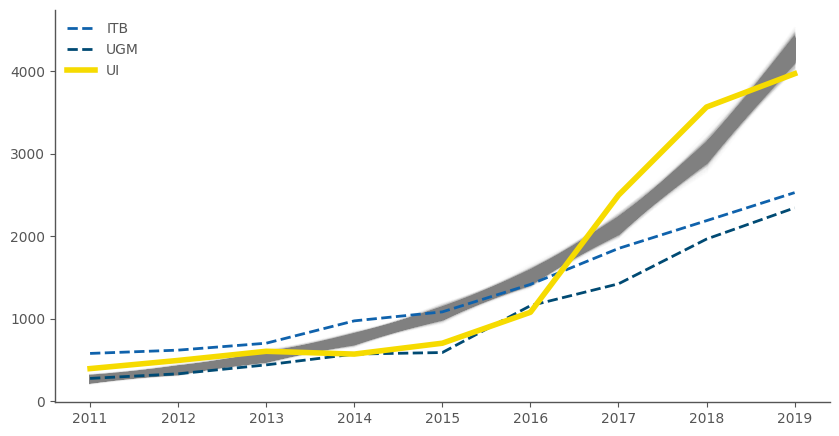
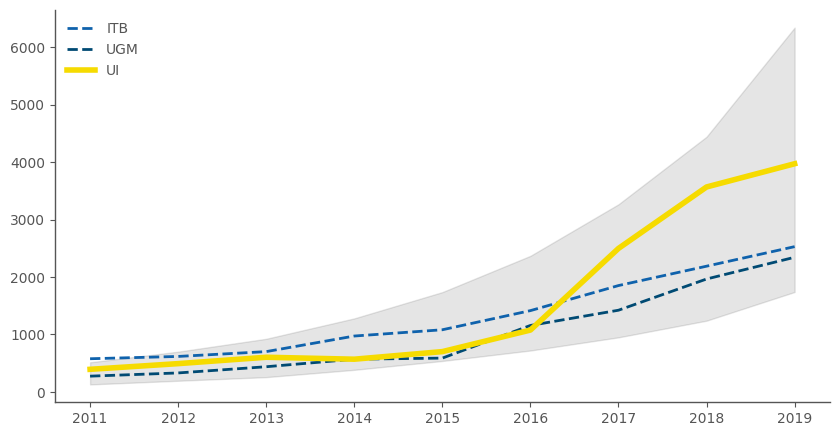
Fix Sinta model

diff --git a/_posts/2020-08-03-Sinta.md b/_posts/2020-08-03-Sinta.md
@@ -27,6 +27,6 @@ Intinya, SINTA itu semacam situs untuk mengindeks penelitian dari dosen-dosen at
 
 Terlihat bahwa jumlah publikasi yang terindeks Scopus dari penelitian di Indonesia semakin bertambah dari tahun ke tahun, pertumbuhannya bahkan boleh jadi di atas linear! Publikasi dari UI, contohnya, bisa eksponensial!
 
-![Exponential growth](/images/statis_posts/sinta/sinta.png "Garis abu-abu adalah hasil regresi Poisson GLM ke data UI")
+![Exponential growth](/images/statis_posts/sinta/sinta.png "Garis abu-abu adalah hasil Negative Binomial regression ke data UI")
 
 Saya mau mengapresiasi situs ini karena halaman utamanya langsung menunjukkan grafik-grafik ini. Secara desain juga situs dan grafiknya sudah sangat bersih. Kalau lah ada sedikit yang bisa diperbaiki, paling hanya kode warna yang bisa disesuaikan dengan warna dari masing-masing kampus, meski memang ada kampus-kampus dengan warna senada. Juga ada *donut chart* yang sepertinya bisa digantikan dengan yang lain - tapi ini sudah cukup banyak dibahas di pos-pos sebelumnya.
